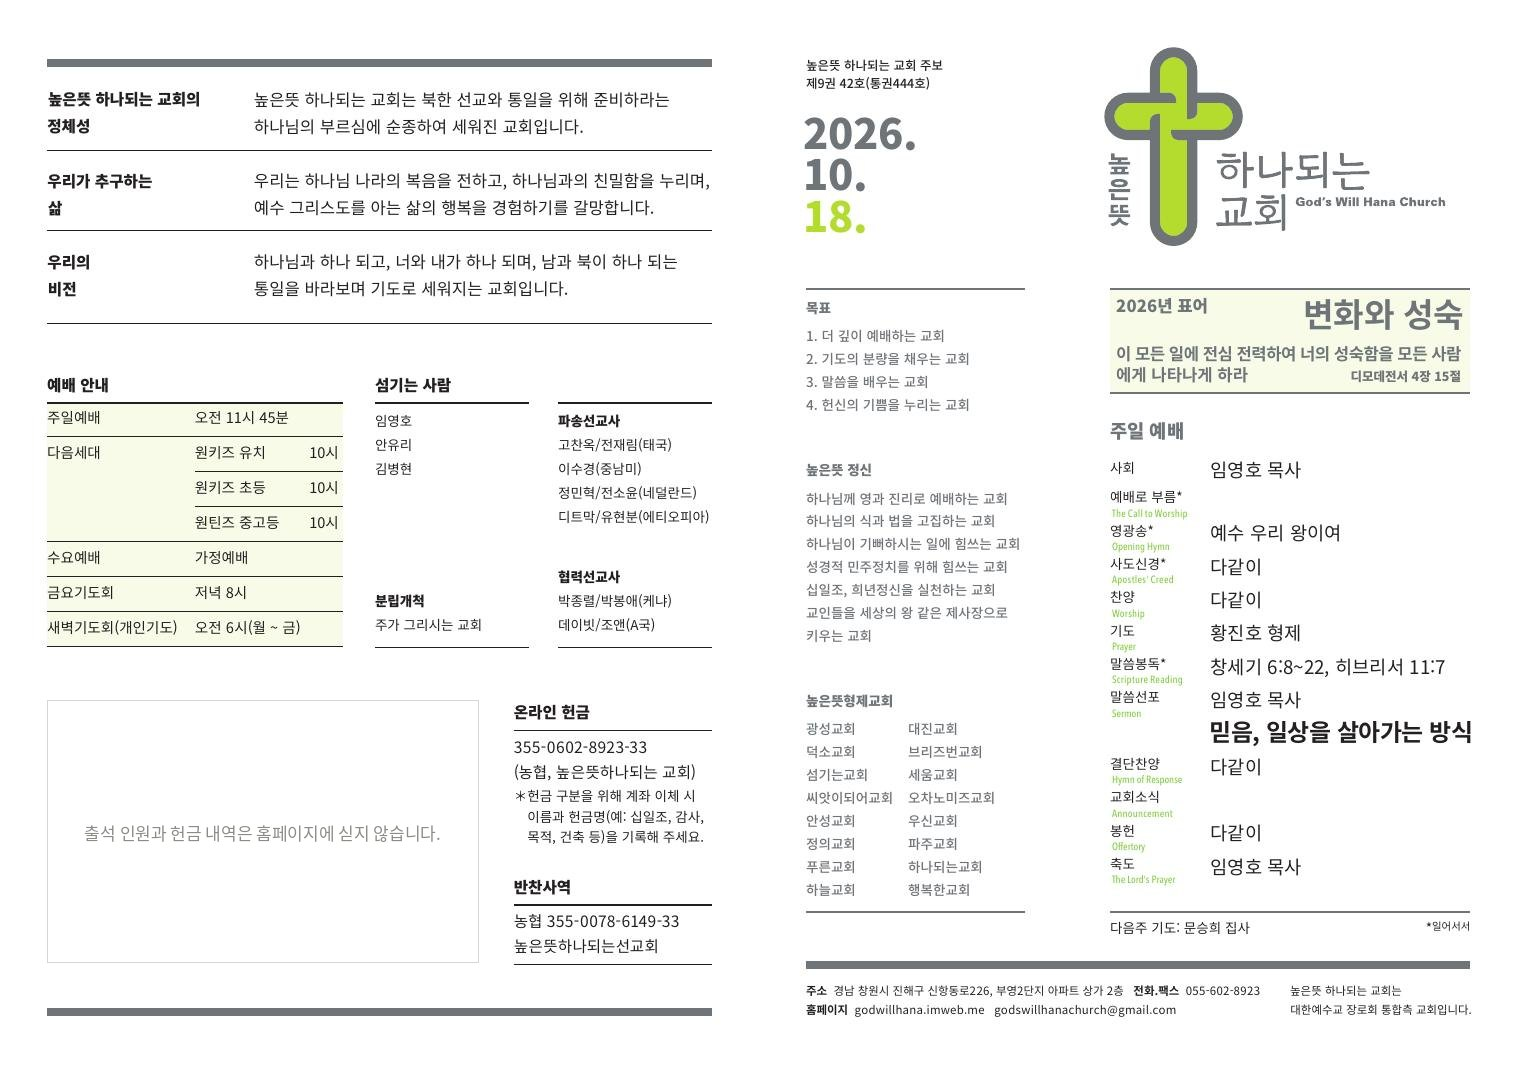
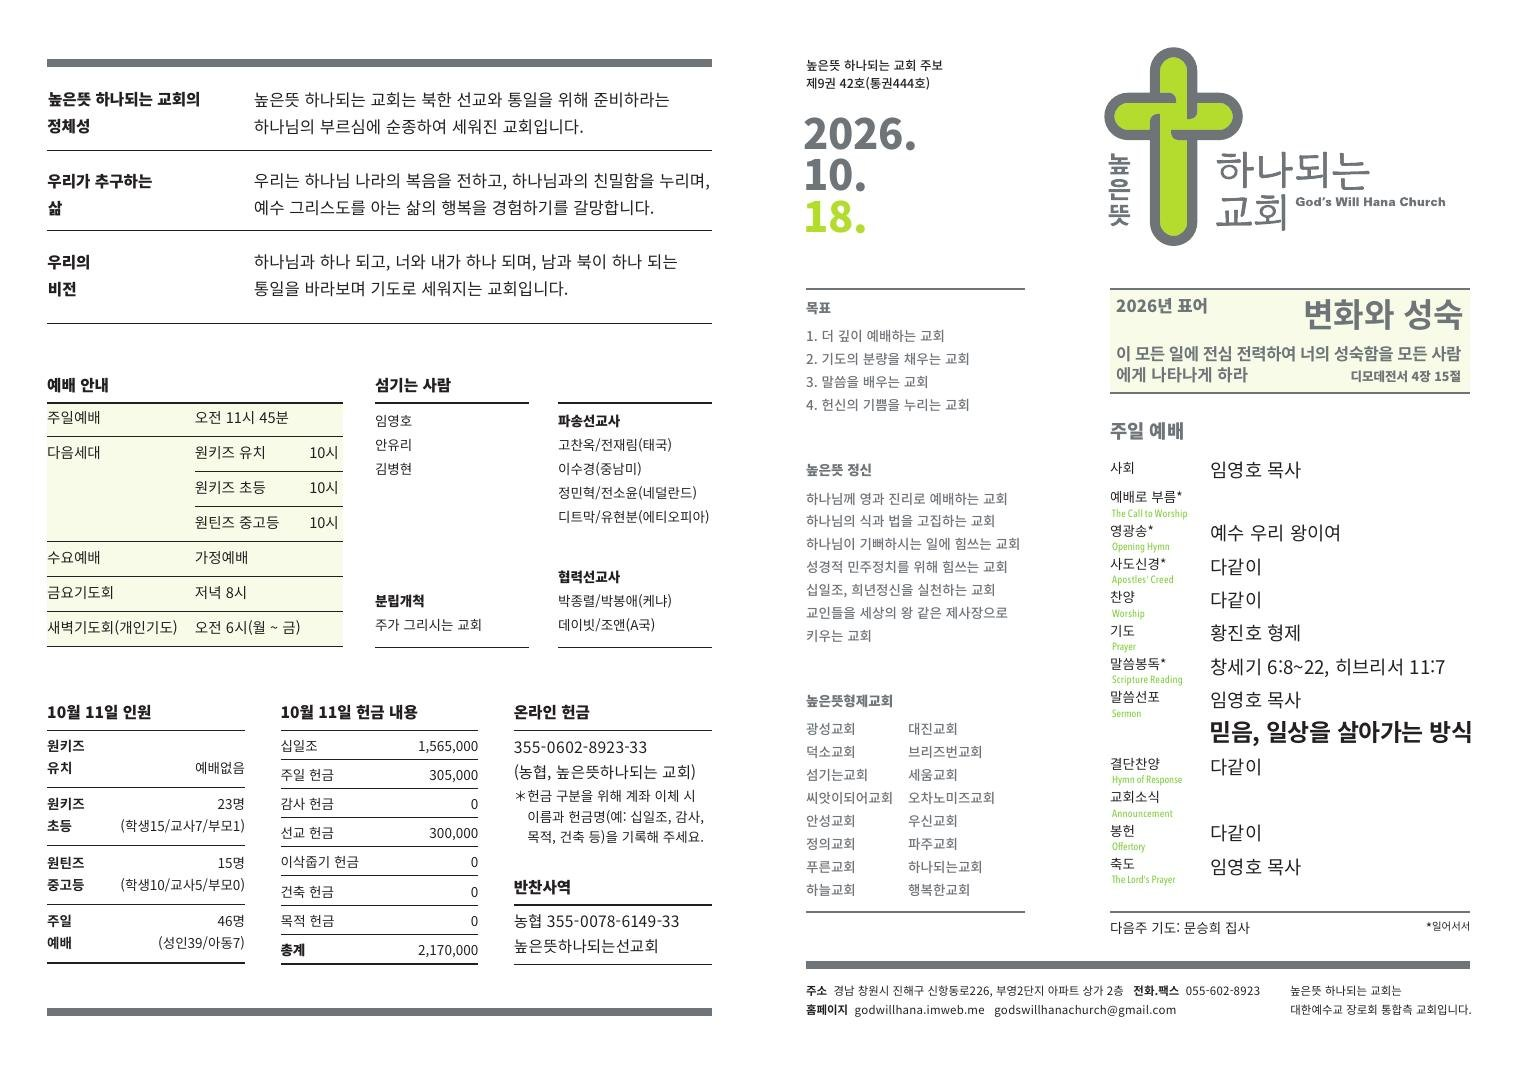
주보 출석·헌금 공개, 선교사 원형 프로필
- 443~446호 주보 앞면을 원본 그대로 공개
- 파송 & 협력 선교사를 섬기는 사람들과 같은 원형 모양으로 변경

Claude-Session: https://claude.ai/code/session_01PErPgFCD1Rt3vrzyZFhzrb

diff --git a/index.html b/index.html
@@ -711,9 +711,13 @@ a.sns:hover{color:var(--ink)!important}
   background:var(--pine-soft);border:2px solid var(--pine);box-shadow:0 0 0 6px var(--pine-soft)}
 .person.staff .badge b{color:var(--ink);margin:0}
 .person.staff .badge .role{font-size:var(--t-sm)!important;color:var(--pine)!important;font-weight:600;white-space:nowrap}
-.person.staff:first-child .badge{background:var(--pine)}
-.person.staff:first-child .badge b,.person.staff:first-child .badge .role{color:#fff!important}
+#people .person.staff:first-child .badge{background:var(--pine)}
+#people .person.staff:first-child .badge b,#people .person.staff:first-child .badge .role{color:#fff!important}
 @media (max-width:640px){.staff .badge{width:100px;box-shadow:0 0 0 4px var(--pine-soft)}.person.staff .badge .role{font-size:.75rem!important}}
+#missionaries .people{grid-template-columns:repeat(4,1fr)!important;gap:8px}
+#missionaries .staff .badge{width:min(112px,100%)}
+#missionaries .person.staff .badge b{font-size:1rem!important}
+@media (max-width:640px){#missionaries .people{grid-template-columns:repeat(2,1fr)!important;gap:16px 8px}#missionaries .staff .badge{width:100px}}
 /* 형제교회 + 분립개척 한 세트 */
 .family{display:grid;grid-template-columns:1fr 220px;align-items:stretch;gap:0}
 .family h3{margin-bottom:1rem!important}
@@ -882,10 +886,10 @@ a.sns:hover{color:var(--ink)!important}
           <div class="box" id="missionaries">
             <h3>파송 &amp; 협력 선교사</h3>
             <div class="people">
-              <div class="person"><b>태국</b><span>파송선교사</span></div>
-              <div class="person"><b>중남미</b><span>파송선교사</span></div>
-              <div class="person"><b>에티오피아</b><span>파송선교사</span></div>
-              <div class="person"><b>케냐</b><span>협력선교사</span></div>
+              <div class="person staff"><div class="badge"><b>태국</b><span class="role">파송선교사</span></div></div>
+              <div class="person staff"><div class="badge"><b>중남미</b><span class="role">파송선교사</span></div></div>
+              <div class="person staff"><div class="badge"><b>에티오피아</b><span class="role">파송선교사</span></div></div>
+              <div class="person staff"><div class="badge"><b>케냐</b><span class="role">협력선교사</span></div></div>
             </div>
           </div>
       </div>
